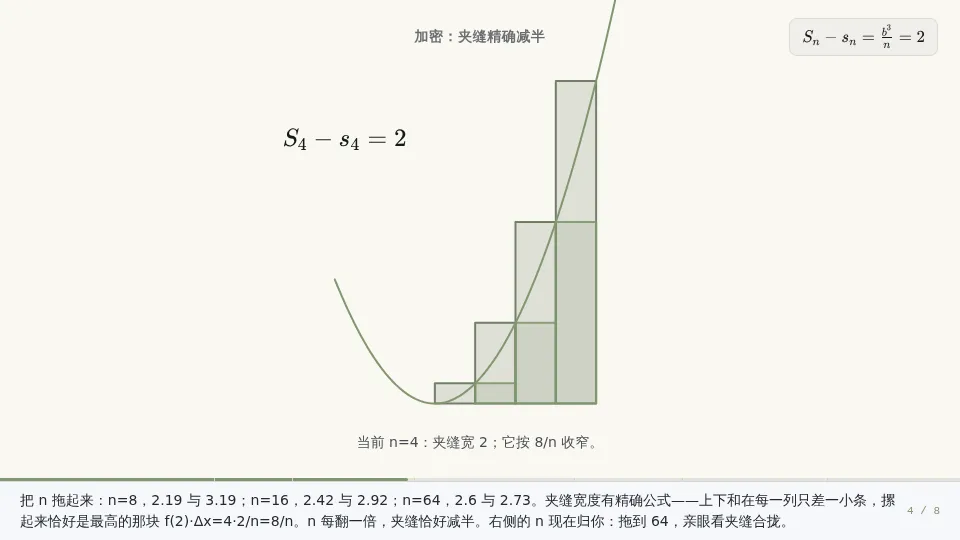
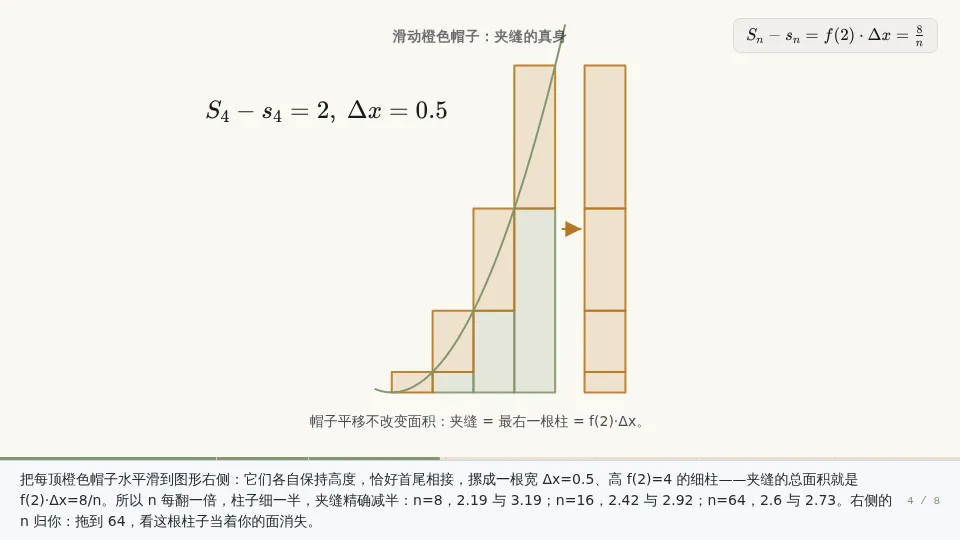
feat(math): retell the integral squeeze as a cap-slide — the gap literally stacks into one f(b)·Δx column
The old refine step claimed "the gap halves each time" but drew two
overlapping rectangle sets you had to take on faith. Now the orange caps
(upper−lower difference strips) slide right and stack flush into a single
column of width Δx and height f(b): the telescoping proof S_n−s_n=b³/n
becomes something you can point at. Parabola is clipped to t≥0 via a
parametric curve, value panels are single-line KaTeX, and the FTC step
gains a marginal strip ΔA≈f(x)Δx at the moving frontier.

Tests pin the stack: bottoms start at 0, joints are contiguous, the top
lands on f(b), and n=64 still produces the full 191-region census.

Claude-Session: https://claude.ai/code/session_014R2cHSbJLtKnh5NTABzwcC

diff --git a/apps/web/src/pages/Templates/gold-templates/math/integralAreaGoldTemplate.ts b/apps/web/src/pages/Templates/gold-templates/math/integralAreaGoldTemplate.ts
@@ -21,8 +21,17 @@ import {
  * numbers are all exact:
  *
  *   upper  S_n = (b³/6)(1+1/n)(2+1/n)   (right endpoints, f increasing)
- *   lower  s_n = S_n − b³/n             (each column differs by one strip)
+ *   lower  s_n = S_n − b³/n             (each column differs by one cap)
  *   exact  S   = b³/3
+ *
+ * Visual language: the lower sum is the green staircase, the upper sum is the
+ * staircase plus orange caps, and the gap is the caps alone. Sliding every cap
+ * to the right stacks them into one column of height f(b) and width Δx — the
+ * telescoping proof-without-words that the gap is exactly b³/n.
+ *
+ * The scene units are square (Mafs preserves aspect), and the content block
+ * [0,b]×[0,b²] is inherently 1:2 tall — so both flanks carry real content: the
+ * value panel on the left, the cap stack on the right.
  */
 
 export function upperRiemannSum(b: number, n: number): number {
@@ -34,22 +43,84 @@ export function lowerRiemannSum(b: number, n: number): number {
 }
 
 type Region = NonNullable<MathSceneSnapshot["regions"]>[number];
+type ScenePoint = NonNullable<MathSceneSnapshot["points"]>[number];
 
-function rectangleRegions(b: number, n: number, mode: "lower" | "upper"): Region[] {
+/** Green staircase: left-endpoint rectangles (the k=0 slab has zero height). */
+function lowerRectangles(b: number, n: number): Region[] {
   const width = b / n;
   const regions: Region[] = [];
-  for (let k = 0; k < n; k += 1) {
+  for (let k = 1; k < n; k += 1) {
     const left = k * width;
-    const right = left + width;
-    const height = mode === "lower" ? left ** 2 : right ** 2;
-    if (height <= 0) continue;
+    const height = left ** 2;
     regions.push({
-      vertices: [[left, 0], [right, 0], [right, height], [left, height]],
-      emphasis: mode === "lower" ? "primary" : "secondary",
+      vertices: [[left, 0], [left + width, 0], [left + width, height], [left, height]],
+      emphasis: "primary",
       semantic_role: "riemann_rectangle",
     });
   }
   return regions;
+}
+
+/**
+ * Orange caps: per column, the strip between the lower and the upper
+ * rectangle. Staircase + caps = the upper sum; caps alone = the gap.
+ */
+function gapCaps(b: number, n: number): Region[] {
+  const width = b / n;
+  return Array.from({ length: n }, (_, k) => {
+    const left = k * width;
+    const lowerEdge = left ** 2;
+    const upperEdge = (left + width) ** 2;
+    return {
+      vertices: [
+        [left, lowerEdge],
+        [left + width, lowerEdge],
+        [left + width, upperEdge],
+        [left, upperEdge],
+      ],
+      emphasis: "accent",
+      semantic_role: "gap_strip",
+    } satisfies Region;
+  });
+}
+
+/**
+ * The caps translated to one column right of the plot: strip k keeps its own
+ * y-range, so the pile is contiguous from 0 to f(b) — one rectangle of width
+ * Δx and height b², i.e. exactly the gap b³/n.
+ */
+function gapStack(b: number, n: number): Region[] {
+  const width = b / n;
+  const stackLeft = 1.18 * b;
+  return Array.from({ length: n }, (_, k) => {
+    const lowerEdge = (k * width) ** 2;
+    const upperEdge = ((k + 1) * width) ** 2;
+    return {
+      vertices: [
+        [stackLeft, lowerEdge],
+        [stackLeft + width, lowerEdge],
+        [stackLeft + width, upperEdge],
+        [stackLeft, upperEdge],
+      ],
+      emphasis: "accent",
+      semantic_role: "gap_stack",
+    } satisfies Region;
+  });
+}
+
+/** Dots where the rectangle heights touch the curve (left or right endpoints). */
+function endpointDots(b: number, n: number, side: "left" | "right"): ScenePoint[] {
+  const width = b / n;
+  const first = side === "left" ? 0 : 1;
+  return Array.from({ length: n }, (_, k) => {
+    const x = (k + first) * width;
+    return {
+      x,
+      y: x ** 2,
+      emphasis: side === "left" ? "primary" : "accent",
+      semantic_role: "sample_point",
+    } satisfies ScenePoint;
+  });
 }
 
 function targetAreaRegion(b: number, emphasis: "secondary" | "accent", upTo = b): Region {
@@ -72,33 +143,46 @@ export function buildIntegralAreaGoldPlaybook(params: TemplatePreviewParams): Pl
   const gap = b ** 3 / n;
   const frontier = 0.7 * b;
   const bText = fixed(b);
+  // Parametric so the parabola stays clipped to the teaching range instead of
+  // sprouting its x<0 branch across the value panel.
   const curve = {
-    expression_y: "x^2",
+    expression_x: "t",
+    expression_y: "t^2",
+    t_min: -0.1 * b,
+    t_max: 1.06 * b,
     label: "y=x²",
     emphasis: "primary" as const,
     semantic_role: "area_curve",
   };
   const scene = (args: {
     regions?: Region[];
+    points?: ScenePoint[];
     segments?: MathSceneSnapshot["segments"];
+    annotations?: MathSceneSnapshot["annotations"];
     valuePanel?: string;
     caption: string;
     formula: string;
   }): MathSceneSnapshot => ({
     kind: "math_scene",
     camera_mode: "fixed",
-    x_min: -0.62 * b,
-    x_max: 1.18 * b,
+    // Square units make [0,b]×[0,b²] a tall 1:2 block; both flanks carry
+    // content (value panel left, cap stack right) instead of dead margin.
+    x_min: -0.66 * b,
+    x_max: 1.74 * b,
     y_min: -0.14 * b * b,
-    y_max: 1.16 * b * b,
+    y_max: 1.14 * b * b,
     x_label: "x",
     y_label: "y",
     curves: [curve],
     regions: args.regions ?? [],
+    points: args.points ?? [],
     segments: args.segments ?? [],
-    annotations: args.valuePanel
-      ? [{ x: -0.56 * b, y: 0.82 * b * b, text: args.valuePanel, align: "nw", semantic_role: "value_panel" }]
-      : [],
+    annotations: [
+      ...(args.valuePanel
+        ? [{ x: -0.4 * b, y: 0.86 * b * b, text: args.valuePanel, semantic_role: "value_panel" }]
+        : []),
+      ...(args.annotations ?? []),
+    ],
     formula_latex: args.formula,
     caption: args.caption,
   });
@@ -111,26 +195,39 @@ export function buildIntegralAreaGoldPlaybook(params: TemplatePreviewParams): Pl
       caption: "曲边梯形：三条直边，加一条抛物线弧。",
       formula: String.raw`S=\,?`,
     })),
-    sceneStep(1, "integral-lower-sum", "地板：藏在曲线下面的矩形", `用手里有的东西——矩形——去逼近。把 [0, ${bText}] 均分成 n=${n} 段，每段以左端点的曲线高度立一个矩形：因为 y=x² 递增，它们全部藏在曲线下方，总面积是 ${fixed(lower)}。无论真值 S 是多少，它一定大于 ${fixed(lower)}——我们拿到了一块地板。`, scene({
-      regions: rectangleRegions(b, n, "lower"),
+    sceneStep(1, "integral-lower-sum", "地板：藏在曲线下面的矩形", `用手里有的东西——矩形——去逼近。把 [0, ${bText}] 均分成 n=${n} 段，每段以左端点的曲线高度立一个矩形——圆点标出每块矩形的高度从曲线上哪里来。因为 y=x² 递增，它们全部藏在曲线下方，总面积是 ${fixed(lower)}。无论真值 S 是多少，它一定大于 ${fixed(lower)}——我们拿到了一块地板。`, scene({
+      regions: lowerRectangles(b, n),
+      points: endpointDots(b, n, "left"),
       valuePanel: `$s_{${n}}=${fixed(lower)}$`,
-      caption: "左端点矩形：每一块都不越过曲线。",
+      caption: "绿色阶梯是下和：每一块都不越过曲线。",
       formula: String.raw`s_{n}=\sum_{k=0}^{n-1}f(x_k)\,\Delta x=${fixed(lower)}`,
     })),
-    sceneStep(2, "integral-upper-sum", "天花板：冒出曲线的矩形", `换右端点，矩形一齐冒出曲线上沿：这一套的总面积是 ${fixed(upper)}。于是真值被夹住了：${fixed(lower)} < S < ${fixed(upper)}。夹缝宽 ${fixed(gap)}，还太宽——但方向已经对了：只要能把夹缝挤到任意窄，S 就无处可逃。`, scene({
-      regions: [...rectangleRegions(b, n, "upper"), ...rectangleRegions(b, n, "lower")],
+    sceneStep(2, "integral-upper-sum", "天花板：每列加一顶帽子", `把每列矩形加高到右端点的曲线高度——图中橙色的帽子。绿色阶梯加上橙色帽子就是上和 ${fixed(upper)}，它盖住了整块曲边图形。于是真值被夹住了：${fixed(lower)} < S < ${fixed(upper)}。而夹缝——上和多出来的部分——恰恰就是那些橙色帽子本身，总面积 ${fixed(gap)}。`, scene({
+      regions: [...lowerRectangles(b, n), ...gapCaps(b, n)],
+      points: endpointDots(b, n, "right"),
       valuePanel: `$s_{${n}}=${fixed(lower)},\\ S_{${n}}=${fixed(upper)}$`,
-      caption: "右端点矩形盖住曲线；两套矩形夹住同一块面积。",
-      formula: String.raw`s_{${n}}<S<S_{${n}}`,
+      caption: "绿=下和；绿+橙=上和；橙色帽子=夹缝。",
+      formula: String.raw`S_{${n}}-s_{${n}}=${fixed(gap)}`,
     })),
-    sceneStep(3, "integral-refine", "加密：夹缝精确减半", `把 n 拖起来：${refineLadder}。夹缝宽度有精确公式——上下和在每一列只差一小条，摞起来恰好是最高的那块 f(${bText})·Δx=${fixed(b * b)}·${bText}/n=${fixed(b ** 3, 1)}/n。n 每翻一倍，夹缝恰好减半。右侧的 n 现在归你：拖到 64，亲眼看夹缝合拢。`, scene({
-      regions: [...rectangleRegions(b, n, "upper"), ...rectangleRegions(b, n, "lower")],
-      valuePanel: `$S_{${n}}-s_{${n}}=${fixed(gap)}$`,
-      caption: `当前 n=${n}：夹缝宽 ${fixed(gap)}；它按 ${fixed(b ** 3, 1)}/n 收窄。`,
-      formula: String.raw`S_n-s_n=\frac{b^3}{n}=${fixed(gap)}`,
+    sceneStep(3, "integral-refine", "滑动橙色帽子：夹缝的真身", `把每顶橙色帽子水平滑到图形右侧：它们各自保持高度，恰好首尾相接，摞成一根宽 Δx=${fixed(b / n, 3)}、高 f(${bText})=${fixed(b * b)} 的细柱——夹缝的总面积就是 f(${bText})·Δx=${fixed(b ** 3, 1)}/n。所以 n 每翻一倍，柱子细一半，夹缝精确减半：${refineLadder}。右侧的 n 归你：拖到 64，看这根柱子当着你的面消失。`, scene({
+      regions: [...lowerRectangles(b, n), ...gapCaps(b, n), ...gapStack(b, n)],
+      segments: [{
+        x0: 1.04 * b,
+        y0: 0.5 * b * b,
+        x1: 1.16 * b,
+        y1: 0.5 * b * b,
+        arrow: true,
+        emphasis: "accent",
+        semantic_role: "slide_hint",
+      }],
+      // The corner formula card already states S_n−s_n=f(b)·Δx; an in-plot
+      // duplicate only collides with the title or the caption.
+      valuePanel: `$S_{${n}}-s_{${n}}=${fixed(gap)},\\ \\Delta x=${fixed(b / n, 3)}$`,
+      caption: `帽子平移不改变面积：夹缝 = 最右一根柱 = f(${bText})·Δx。`,
+      formula: String.raw`S_n-s_n=f(${bText})\cdot\Delta x=\frac{${fixed(b ** 3, 1)}}{n}`,
     })),
     sceneStep(4, "integral-exact-sum", "精确求和：阿基米德的武器", `夹缝中央到底是哪个数？右和有闭式：S_n=(b³/n³)·(1²+2²+⋯+n²)，代入平方和公式 1²+⋯+n²=n(n+1)(2n+1)/6，得 S_n=(b³/6)(1+1/n)(2+1/n)。这条求和公式在阿基米德的时代就已知——他正是用它的几何版本证明抛物线弓形等于内接三角形的 4/3。现在让 n 无限增大：两个括号分别趋于 1 和 2，S_n 趋于 b³/3=${fixed(exact)}。`, scene({
-      regions: rectangleRegions(b, n, "upper"),
+      regions: [...lowerRectangles(b, n), ...gapCaps(b, n)],
       valuePanel: `$S_{${n}}=${fixed(upper)}\\to ${fixed(exact)}$`,
       caption: "闭式在手，极限只是让 1/n 归零。",
       formula: String.raw`S_n=\frac{b^3}{6}\Bigl(1+\frac1n\Bigr)\Bigl(2+\frac1n\Bigr)\to\frac{b^3}{3}`,
@@ -141,24 +238,42 @@ export function buildIntegralAreaGoldPlaybook(params: TemplatePreviewParams): Pl
       caption: "极限收口之后，面积第一次成为一个确定的数。",
       formula: String.raw`\int_0^{${bText}}x^2\,dx=\frac{${bText}^3}{3}=${fixed(exact)}`,
     })),
-    sceneStep(6, "integral-ftc", "换一条路验证：请出上一课的导数", `用完全独立的第二条路检查。令面积函数 A(x) 表示从 0 积到 x 的面积：x 向右挪一小步，新增的窄条面积约等于 f(x) 乘步长——所以 A′(x)=x²，面积的瞬时增长率恰是右边界的高度。于是找一个导数为 x² 的函数：F(x)=x³/3，则 S=F(${bText})−F(0)=${fixed(exact)}，与矩形夹逼分毫不差。求面积与求切线互为逆运算——这就是微积分基本定理。`, scene({
-      regions: [targetAreaRegion(b, "accent", frontier)],
+    sceneStep(6, "integral-ftc", "换一条路验证：请出上一课的导数", `用完全独立的第二条路检查。令面积函数 A(x) 表示从 0 积到 x 的面积：x 向右挪一小步，新增的橙色窄条面积约等于 f(x) 乘步长——所以 A′(x)=x²，面积的瞬时增长率恰是右边界的高度。于是找一个导数为 x² 的函数：F(x)=x³/3，则 S=F(${bText})−F(0)=${fixed(exact)}，与矩形夹逼分毫不差。求面积与求切线互为逆运算——这就是微积分基本定理。`, scene({
+      regions: [
+        targetAreaRegion(b, "secondary", frontier),
+        {
+          vertices: [
+            [frontier, 0],
+            [frontier + 0.06 * b, 0],
+            [frontier + 0.06 * b, frontier ** 2],
+            [frontier, frontier ** 2],
+          ],
+          emphasis: "accent",
+          semantic_role: "marginal_strip",
+        },
+      ],
       segments: [{ x0: frontier, y0: 0, x1: frontier, y1: frontier ** 2, arrow: false, label: "f(x)", emphasis: "accent", semantic_role: "area_frontier" }],
+      annotations: [{
+        x: frontier + 0.32 * b,
+        y: frontier ** 2 + 0.12 * b * b,
+        text: "$\\Delta A\\approx f(x)\\,\\Delta x$",
+        semantic_role: "marginal_note",
+      }],
       valuePanel: `$A'(x)=x^2,\\ F(x)=\\tfrac{x^3}{3}$`,
-      caption: "推进中的右边界：新增窄条的高度就是 f(x)。",
+      caption: "推进中的右边界：新增橙色窄条的高度就是 f(x)。",
       formula: String.raw`S=F(${bText})-F(0)=${fixed(exact)}`,
     })),
-    sceneStep(7, "integral-transfer", "骨架：切细、求和、取极限", `“切细—求和—取极限”是把无数微小贡献累积成总量的通用骨架：速度曲线下的面积是路程——伽利略斜面故事的另一半；力沿位移累积成功；概率密度下的面积是概率。阿基米德的穷竭、黎曼的矩形、莱布尼茨的记号，说的都是同一件事。沙盘：n 与上限 b 都归你——把 n 拖到 64 看夹缝合拢，把 b 拖到 3 验证面积变成 27/3=9。`, scene({
-      regions: [...rectangleRegions(b, n, "lower"), targetAreaRegion(b, "secondary")],
+    sceneStep(7, "integral-transfer", "骨架：切细、求和、取极限", `“切细—求和—取极限”是把无数微小贡献累积成总量的通用骨架：速度曲线下的面积是路程——伽利略斜面故事的另一半；力沿位移累积成功；概率密度下的面积是概率。阿基米德的穷竭、黎曼的矩形、莱布尼茨的记号，说的都是同一件事。沙盘：n 与上限 b 都归你——把 n 拖到 64 看橙色夹缝消失，把 b 拖到 3 验证面积变成 27/3=9。`, scene({
+      regions: [...lowerRectangles(b, n), ...gapCaps(b, n), targetAreaRegion(b, "secondary")],
       valuePanel: `$n=${n},\\ b=${bText},\\ S=${fixed(exact)}$`,
-      caption: "沙盘：矩形与真实面积同屏，误差由 n 决定。",
+      caption: "沙盘：矩形与真实面积同屏，橙色是仍未消化的误差。",
       formula: String.raw`\boxed{\int_0^{b}x^2\,dx=\lim_{n\to\infty}\sum_{k}f(x_k)\,\Delta x=\frac{b^3}{3}}`,
     })),
   ];
   return playbook(
     "math",
     "定积分 · 从阿基米德到黎曼和",
-    "上下矩形和夹逼曲边面积，闭式求和取极限，微积分基本定理双路验证。",
+    "下和阶梯加橙色帽子夹出曲边面积，帽子滑移摞成 b³/n，闭式取极限，基本定理双路验证。",
     "math_integral_riemann_area",
     steps,
     [
@@ -175,8 +290,8 @@ export const INTEGRAL_AREA_GOLD_TEMPLATE: GoldTemplateManifest = standaloneCase(
   domain: "calculus",
   topic: "定积分",
   title: "定积分 · 从阿基米德到黎曼和",
-  description: "上下矩形和夹逼、平方和闭式、∫ 记号与微积分基本定理双路验证",
-  prompt: "讲解定积分 ∫₀² x² dx 的几何意义：用左右端点矩形建立下和与上和，说明夹缝宽 b³/n 并随 n 加密收窄，用平方和公式求出极限 8/3，引入 ∫ 记号，再用面积函数的导数与 F(x)=x³/3 做微积分基本定理的第二路验证。",
+  description: "下和阶梯与橙色夹缝帽、帽子滑移的 b³/n 无字证明、∫ 记号与基本定理双路验证",
+  prompt: "讲解定积分 ∫₀² x² dx 的几何意义：用左端点矩形建立下和，给每列加右端点高度的帽子得到上和，把帽子平移堆叠证明夹缝恰为 b³/n 并随 n 加密收窄，用平方和公式求出极限 8/3，引入 ∫ 记号，再用面积函数的导数与 F(x)=x³/3 做微积分基本定理的第二路验证。",
   defaults: { n: 4, b: 2 },
   controls: [
     { id: "n", kind: "range", label: "矩形数量 n", description: "加密矩形，夹缝减半", min: 2, max: 64, step: 1, resetPlayback: false, steps: ["integral-lower-sum", "integral-upper-sum", "integral-refine", "integral-exact-sum", "integral-transfer"] },
@@ -187,31 +302,31 @@ export const INTEGRAL_AREA_GOLD_TEMPLATE: GoldTemplateManifest = standaloneCase(
   expectedFacts: [
     { id: "integral-archimedes", description: "以阿基米德穷竭法与抛物线弓形开场", anyOf: ["阿基米德", "穷竭", "4/3"] },
     { id: "integral-sandwich", description: "下和与上和从两侧夹住面积", anyOf: ["夹住", "地板", "天花板"] },
-    { id: "integral-gap", description: "夹缝宽度恰为 b³/n 并随加密减半", anyOf: ["8/n", "b³/n", "减半"] },
+    { id: "integral-gap", description: "夹缝恰为帽子堆叠 f(b)·Δx=b³/n 并随加密减半", anyOf: ["8/n", "b³/n", "f(2)·Δx", "减半"] },
     { id: "integral-square-sum", description: "平方和闭式 n(n+1)(2n+1)/6 给出精确极限", anyOf: ["n(n+1)(2n+1)/6", "平方和"] },
     { id: "integral-value", description: "∫₀²x²dx=8/3", anyOf: ["8/3", "b³/3", "2.67"] },
     { id: "integral-ftc", description: "微积分基本定理：A′(x)=f(x)，S=F(b)−F(0)", anyOf: ["x³/3", "基本定理", "互为逆"] },
   ],
   visualInvariants: [{
     id: "integral-visual",
-    description: "抛物线、黎曼矩形与目标曲边区域同屏可辨认",
-    requiredSemanticRoles: ["area_curve", "riemann_rectangle", "target_area"],
-    requiredStateFields: ["curves", "regions", "annotations", "x_min"],
+    description: "抛物线、下和阶梯、橙色夹缝帽与目标曲边区域同屏可辨认",
+    requiredSemanticRoles: ["area_curve", "riemann_rectangle", "gap_strip", "gap_stack", "target_area"],
+    requiredStateFields: ["curves", "regions", "points", "annotations", "x_min"],
   }],
-  objective: "把曲边面积识别为上下矩形和的公共极限，用平方和闭式算出 b³/3，并以微积分基本定理做独立的第二路验证。",
+  objective: "把曲边面积识别为上下矩形和的公共极限，用帽子滑移看见夹缝 b³/n，用平方和闭式算出 b³/3，并以微积分基本定理做独立的第二路验证。",
   minimumSteps: 8,
   builder: buildIntegralAreaGoldPlaybook,
-  mechanism: "f 在 [0,b] 上递增，左端点矩形恒在曲线下、右端点矩形恒在曲线上；两串和单调逼近同一极限，夹缝 b³/n 可任意小。",
+  mechanism: "f 在 [0,b] 上递增，左端点矩形恒在曲线下、右端点补高的帽子恒盖住曲线；两串和单调逼近同一极限，夹缝 b³/n 可任意小。",
   mechanismByStep: {
     "integral-puzzle": "直边图形可以剖分成三角形处理，曲边不行：任何有限次直线剖分都留下弯曲的残边。阿基米德的穷竭法正是“用无穷多个直边图形吃掉残边”。",
     "integral-lower-sum": "y=x² 在 [0,b] 上单调递增，每段的最小值在左端点取得，所以左端点矩形整块位于曲线下方，s_n 是 S 的下界。",
-    "integral-upper-sum": "同一段的最大值在右端点取得，右端点矩形盖住该段全部曲线下面积，S_n 是上界；于是 s_n<S<S_n 对每个 n 都成立。",
-    "integral-refine": "逐列相减，上下矩形只差一条高 f(x_{k+1})−f(x_k) 的窄带；沿列望去这些窄带恰好摞成最右一块 f(b)·Δx=b³/n，所以夹缝随 1/n 线性消失。",
+    "integral-upper-sum": "同一段的最大值在右端点取得，帽子把矩形补高到右端点后盖住该段全部曲线下面积；于是 s_n<S<s_n+帽子面积=S_n 对每个 n 都成立。",
+    "integral-refine": "第 k 顶帽子的高度是 f(x_{k+1})−f(x_k)；水平平移不改变面积，而这些高度首尾相接恰好望远镜求和成 f(b)−f(0)=b²——所以整摞是一根 b²×Δx 的柱子，夹缝随 1/n 线性消失。",
     "integral-exact-sum": "S_n=Σ(kΔx)²Δx=(b³/n³)Σk²；代入 Σk²=n(n+1)(2n+1)/6 后，n 只以 1/n 的形式出现，极限一目了然。",
     "integral-definition": "下和上和的公共极限存在且唯一，才允许把“面积”定义为这个极限；对连续函数这一点总成立，这正是黎曼积分的内容。",
-    "integral-ftc": "A(x+dx)−A(x) 是宽 dx 的窄条，夹在 f(x)dx 与 f(x+dx)dx 之间，除以 dx 取极限得 A′(x)=f(x)；再由“导数相同的函数只差常数”得 S=F(b)−F(0)。",
+    "integral-ftc": "A(x+Δx)−A(x) 是那根橙色窄条，夹在 f(x)Δx 与 f(x+Δx)Δx 之间，除以 Δx 取极限得 A′(x)=f(x)；再由“导数相同的函数只差常数”得 S=F(b)−F(0)。",
     "integral-transfer": "被积函数换成速度 v(t)，同一套黎曼和就是“短时间×速度”的路程累加——上一课导数把位置变速度，这一课积分把速度变回位置，两个方向互逆。",
   },
-  transfer: "把 n 从 4 拖到 64，核对夹缝宽度恰好是 b³/n；再把 b 拖到 3，验证面积变成 27/3=9，且第 6 步的 F(b)−F(0) 给出同一个数。",
+  transfer: "把 n 从 4 拖到 64，看右侧橙色柱子按 b³/n 变细直至消失；再把 b 拖到 3，验证面积变成 27/3=9，且第 7 步的 F(b)−F(0) 给出同一个数。",
   posterStepIndex: 3,
 });

diff --git a/apps/web/src/pages/Templates/gold-templates/math/mathGoldTemplates.test.ts b/apps/web/src/pages/Templates/gold-templates/math/mathGoldTemplates.test.ts
@@ -143,17 +143,39 @@ describe("calculus public Gold Templates", () => {
       expect(lower.snapshot.regions?.every(
         (region) => region.semantic_role === "riemann_rectangle",
       )).toBe(true);
+      // Dots mark where each rectangle's height touches the curve.
+      expect(lower.snapshot.points).toHaveLength(4);
+      expect(lower.snapshot.points?.every((point) => point.y === point.x ** 2)).toBe(true);
     }
 
     const upper = script.steps[2];
     expect(upper.voiceover_text).toContain("1.75 < S < 3.75");
     if (upper.snapshot.kind === "math_scene") {
+      // Staircase (3) plus one orange cap per column (4).
       expect(upper.snapshot.regions).toHaveLength(7);
+      expect(upper.snapshot.regions?.filter(
+        (region) => region.semantic_role === "gap_strip",
+      )).toHaveLength(4);
     }
 
     const refine = script.steps[3];
     expect(refine.voiceover_text).toContain("n=8，2.19 与 3.19");
     expect(refine.voiceover_text).toContain("n=64，2.6 与 2.73");
+    if (refine.snapshot.kind === "math_scene") {
+      // The caps slide right into one contiguous stack: strip k's top edge is
+      // strip k+1's bottom edge, and the pile spans 0..f(b) — that IS b³/n.
+      const stack = refine.snapshot.regions!.filter(
+        (region) => region.semantic_role === "gap_stack",
+      );
+      expect(stack).toHaveLength(4);
+      const tops = stack.map((region) => region.vertices[2][1]);
+      const bottoms = stack.map((region) => region.vertices[0][1]);
+      expect(bottoms[0]).toBe(0);
+      expect(tops.at(-1)).toBeCloseTo(4, 12);
+      for (let k = 1; k < stack.length; k += 1) {
+        expect(bottoms[k]).toBeCloseTo(tops[k - 1], 12);
+      }
+    }
 
     expect(script.steps[4].voiceover_text).toContain("n(n+1)(2n+1)/6");
     expect(script.steps[5].voiceover_text).toContain("2.67");
@@ -165,10 +187,10 @@ describe("calculus public Gold Templates", () => {
     const dense = buildIntegralAreaGoldPlaybook({ n: 64, b: 2 });
     const refine = dense.steps[3];
     if (refine.snapshot.kind === "math_scene") {
-      // 64 upper + 63 lower rectangles (left-endpoint k=0 skipped).
-      expect(refine.snapshot.regions).toHaveLength(127);
+      // 63 staircase slabs + 64 caps + 64 stacked strips.
+      expect(refine.snapshot.regions).toHaveLength(191);
     }
-    expect(refine.voiceover_text).toContain(`n=64`);
+    expect(refine.voiceover_text).toContain(`Δx=0.031`);
 
     const widened = buildIntegralAreaGoldPlaybook({ n: 4, b: 3 });
     expect(widened.steps[5].voiceover_text).toContain("S=lim Σf(xₖ)Δx=9");
